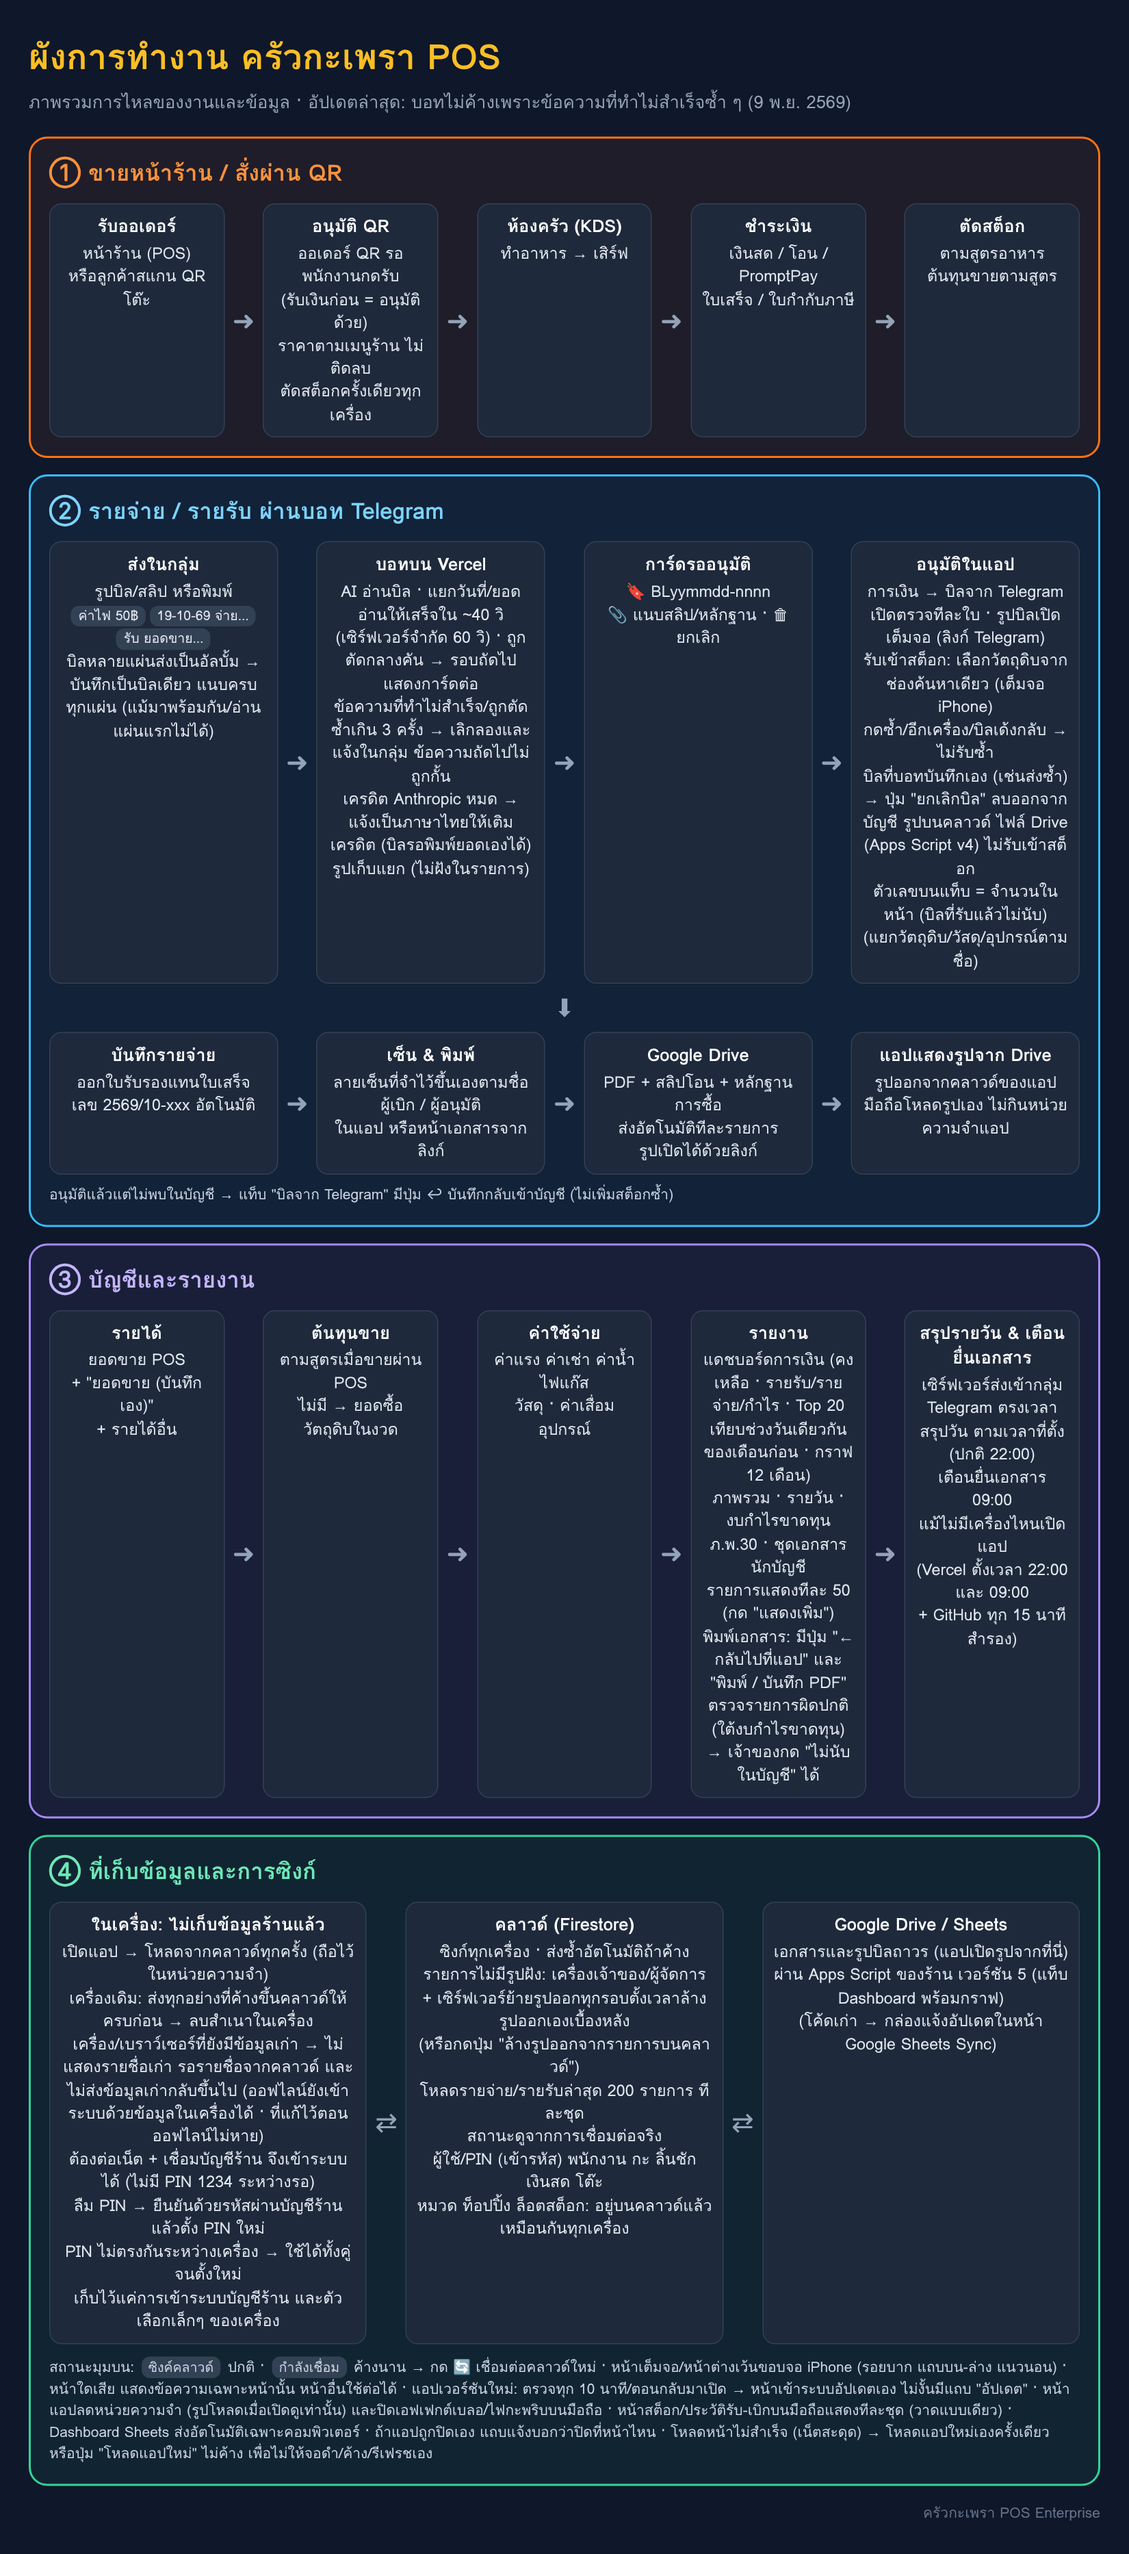
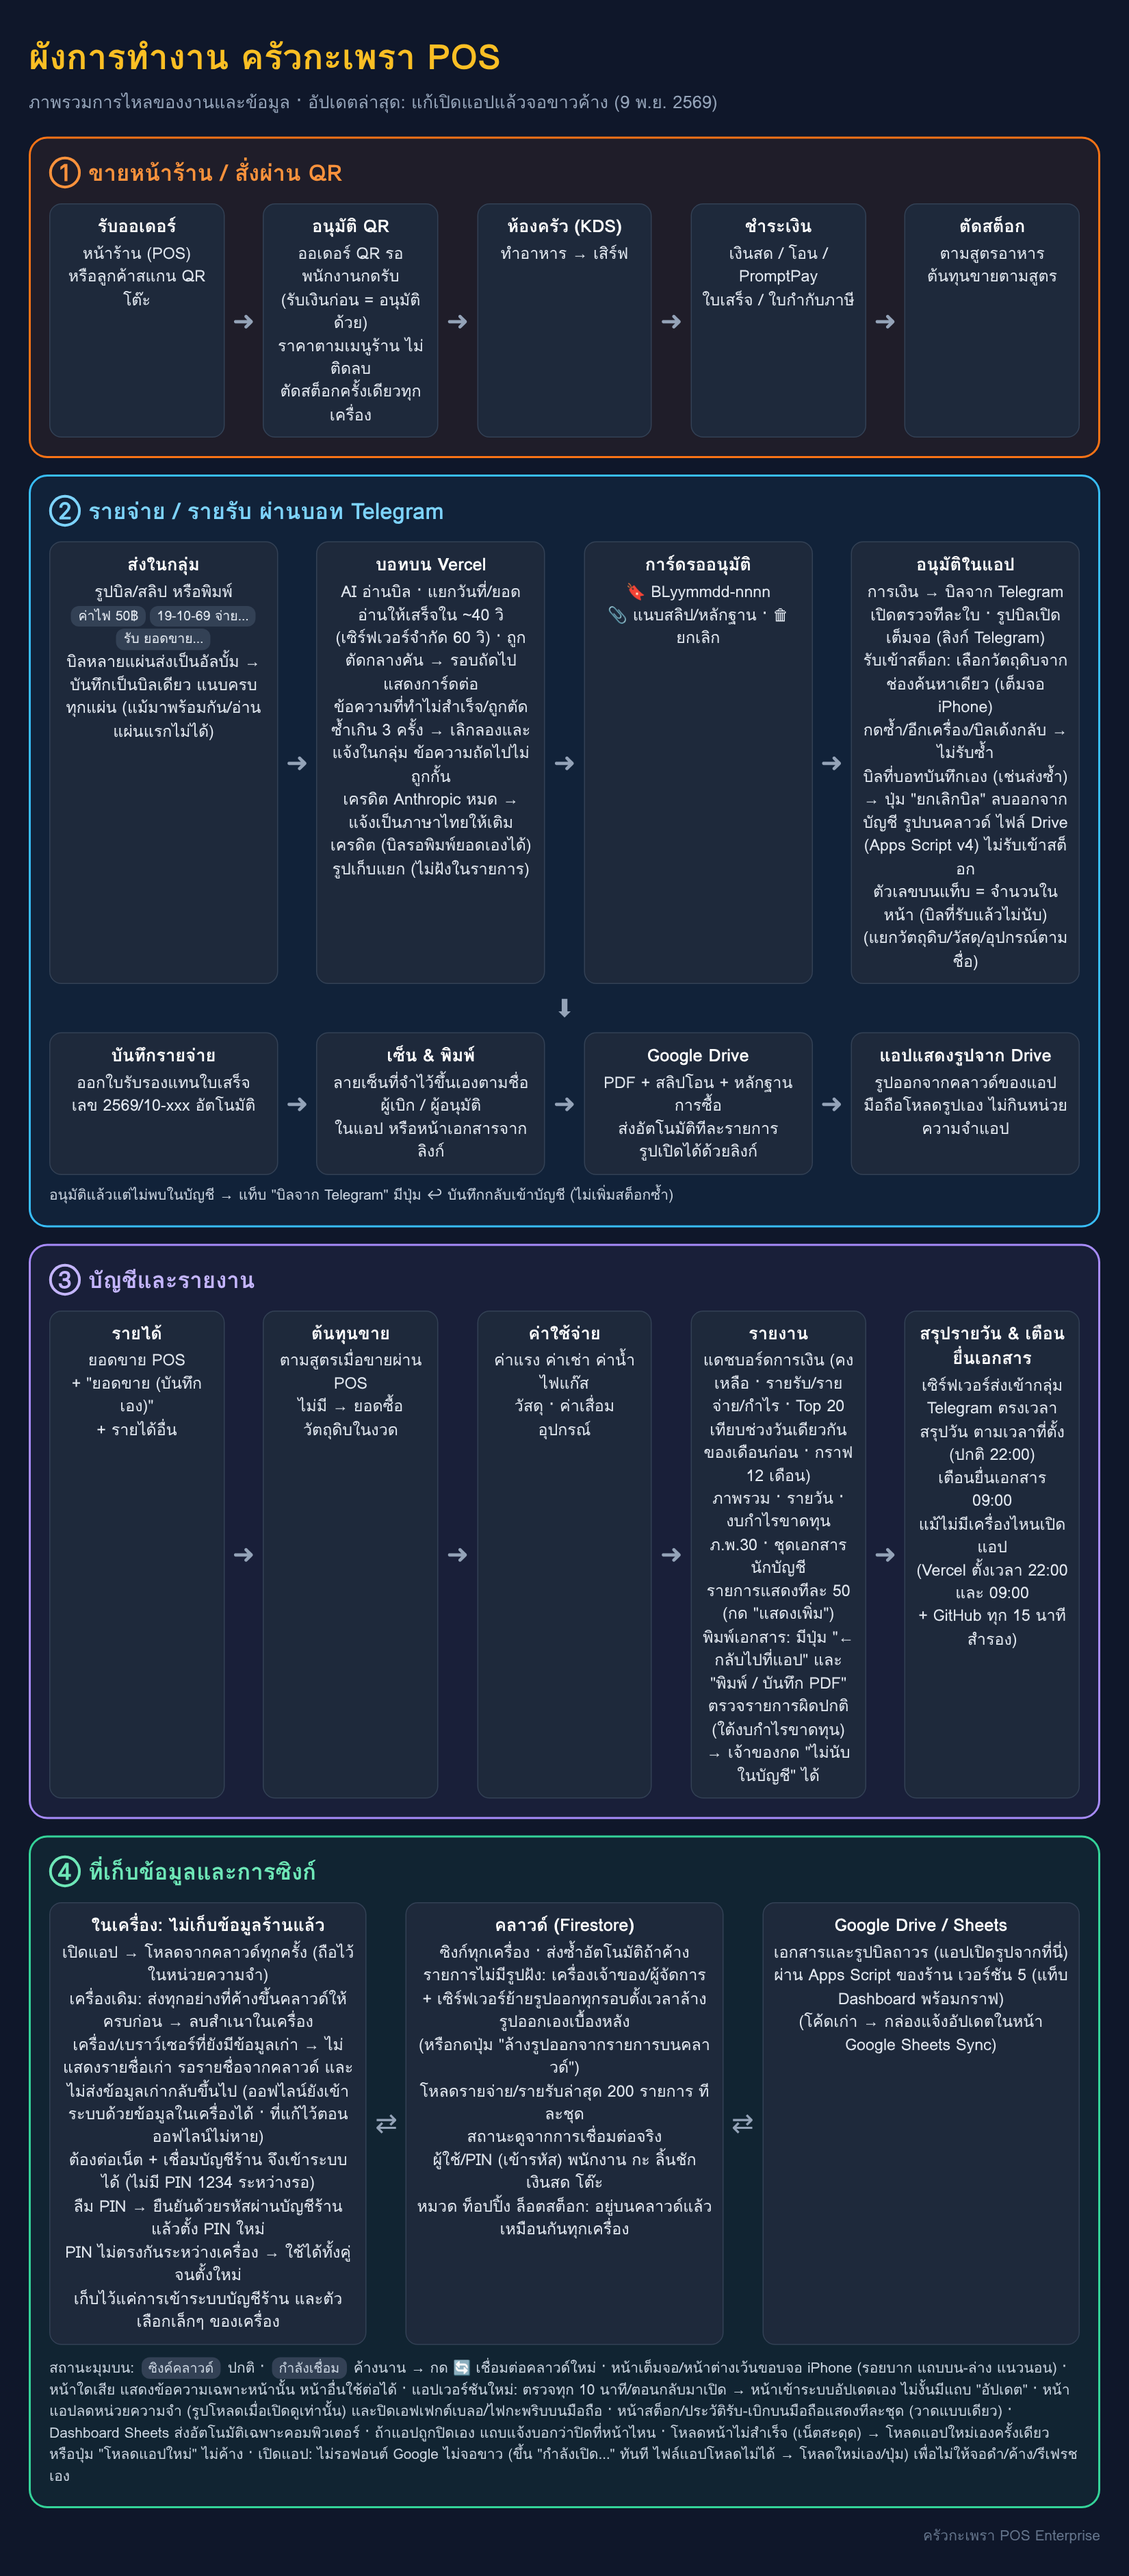
Opening the app no longer leaves a white screen
The iPhone showed a white page and nothing else. The Google font stylesheet
blocked the page, and the app's code waits for blocking stylesheets: on a weak
signal nothing started until Google answered. A main file that failed to load
left the page blank with no way out.

- The font loads without blocking (system font meanwhile).
- The page has the app's dark colour and "กำลังเปิด…" from the first moment.
- A file of the app that fails to load reloads it once by itself (not again
  within 2 minutes); still not open after 20 s, a message with
  "โหลดแอปใหม่" is shown.
- Service worker: the app's files (named by their content) come from the
  cache when there, else the network, tried twice.

Claude-Session: https://claude.ai/code/session_01Gq3UvYW4wv3hsVCXoh5wxy

diff --git a/docs/workflow/flow.html b/docs/workflow/flow.html
@@ -17,7 +17,7 @@ h1{margin:0 0 4px;font-size:34px;color:#fbbf24}.sub{color:#94a3b8;font-size:17px
 .foot{color:#64748b;font-size:14px;margin-top:6px;text-align:right}
 </style></head><body>
 <h1>ผังการทำงาน ครัวกะเพรา POS</h1>
-<div class="sub">ภาพรวมการไหลของงานและข้อมูล · อัปเดตล่าสุด: บอทไม่ค้างเพราะข้อความที่ทำไม่สำเร็จซ้ำ ๆ (9 พ.ย. 2569)</div>
+<div class="sub">ภาพรวมการไหลของงานและข้อมูล · อัปเดตล่าสุด: แก้เปิดแอปแล้วจอขาวค้าง (9 พ.ย. 2569)</div>
 
 <div class="lane pos"><h2>① ขายหน้าร้าน / สั่งผ่าน QR</h2>
 <div class="row">
@@ -60,7 +60,7 @@ h1{margin:0 0 4px;font-size:34px;color:#fbbf24}.sub{color:#94a3b8;font-size:17px
 <div class="box"><b>คลาวด์ (Firestore)</b>ซิงก์ทุกเครื่อง · ส่งซ้ำอัตโนมัติถ้าค้าง<br>รายการไม่มีรูปฝัง: เครื่องเจ้าของ/ผู้จัดการ<br>+ เซิร์ฟเวอร์ย้ายรูปออกทุกรอบตั้งเวลาล้างรูปออกเองเบื้องหลัง<br>(หรือกดปุ่ม "ล้างรูปออกจากรายการบนคลาวด์")<br>โหลดรายจ่าย/รายรับล่าสุด 200 รายการ ทีละชุด<br>สถานะดูจากการเชื่อมต่อจริง<br>ผู้ใช้/PIN (เข้ารหัส) พนักงาน กะ ลิ้นชักเงินสด โต๊ะ<br>หมวด ท็อปปิ้ง ล็อตสต็อก: อยู่บนคลาวด์แล้ว เหมือนกันทุกเครื่อง</div><div class="ar">⇄</div>
 <div class="box"><b>Google Drive / Sheets</b>เอกสารและรูปบิลถาวร (แอปเปิดรูปจากที่นี่)<br>ผ่าน Apps Script ของร้าน เวอร์ชัน 5 (แท็บ Dashboard พร้อมกราฟ)<br>(โค้ดเก่า → กล่องแจ้งอัปเดตในหน้า Google Sheets Sync)</div>
 </div>
-<div class="note">สถานะมุมบน: <span class="tag">ซิงค์คลาวด์</span> ปกติ · <span class="tag">กำลังเชื่อม</span> ค้างนาน → กด 🔄 เชื่อมต่อคลาวด์ใหม่ · หน้าเต็มจอ/หน้าต่างเว้นขอบจอ iPhone (รอยบาก แถบบน-ล่าง แนวนอน) · หน้าใดเสีย แสดงข้อความเฉพาะหน้านั้น หน้าอื่นใช้ต่อได้ · แอปเวอร์ชันใหม่: ตรวจทุก 10 นาที/ตอนกลับมาเปิด → หน้าเข้าระบบอัปเดตเอง ไม่งั้นมีแถบ "อัปเดต" · หน้าแอปลดหน่วยความจำ (รูปโหลดเมื่อเปิดดูเท่านั้น) และปิดเอฟเฟกต์เบลอ/ไฟกะพริบบนมือถือ · หน้าสต็อก/ประวัติรับ-เบิกบนมือถือแสดงทีละชุด (วาดแบบเดียว) · Dashboard Sheets ส่งอัตโนมัติเฉพาะคอมพิวเตอร์ · ถ้าแอปถูกปิดเอง แถบแจ้งบอกว่าปิดที่หน้าไหน · โหลดหน้าไม่สำเร็จ (เน็ตสะดุด) → โหลดแอปใหม่เองครั้งเดียว หรือปุ่ม "โหลดแอปใหม่" ไม่ค้าง เพื่อไม่ให้จอดำ/ค้าง/รีเฟรชเอง</div>
+<div class="note">สถานะมุมบน: <span class="tag">ซิงค์คลาวด์</span> ปกติ · <span class="tag">กำลังเชื่อม</span> ค้างนาน → กด 🔄 เชื่อมต่อคลาวด์ใหม่ · หน้าเต็มจอ/หน้าต่างเว้นขอบจอ iPhone (รอยบาก แถบบน-ล่าง แนวนอน) · หน้าใดเสีย แสดงข้อความเฉพาะหน้านั้น หน้าอื่นใช้ต่อได้ · แอปเวอร์ชันใหม่: ตรวจทุก 10 นาที/ตอนกลับมาเปิด → หน้าเข้าระบบอัปเดตเอง ไม่งั้นมีแถบ "อัปเดต" · หน้าแอปลดหน่วยความจำ (รูปโหลดเมื่อเปิดดูเท่านั้น) และปิดเอฟเฟกต์เบลอ/ไฟกะพริบบนมือถือ · หน้าสต็อก/ประวัติรับ-เบิกบนมือถือแสดงทีละชุด (วาดแบบเดียว) · Dashboard Sheets ส่งอัตโนมัติเฉพาะคอมพิวเตอร์ · ถ้าแอปถูกปิดเอง แถบแจ้งบอกว่าปิดที่หน้าไหน · โหลดหน้าไม่สำเร็จ (เน็ตสะดุด) → โหลดแอปใหม่เองครั้งเดียว หรือปุ่ม "โหลดแอปใหม่" ไม่ค้าง · เปิดแอป: ไม่รอฟอนต์ Google ไม่จอขาว (ขึ้น "กำลังเปิด…" ทันที ไฟล์แอปโหลดไม่ได้ → โหลดใหม่เอง/ปุ่ม) เพื่อไม่ให้จอดำ/ค้าง/รีเฟรชเอง</div>
 </div>
 <div class="foot">ครัวกะเพรา POS Enterprise</div>
 </body></html>

diff --git a/index.html b/index.html
@@ -23,13 +23,58 @@
     <!-- Kanit: large, easy-to-read prices and totals on the POS screen -->
     <link rel="preconnect" href="https://fonts.googleapis.com" />
     <link rel="preconnect" href="https://fonts.gstatic.com" crossorigin />
-    <link href="https://fonts.googleapis.com/css2?family=Kanit:wght@500;600;700&display=swap" rel="stylesheet" />
+    <!-- Not render-blocking: on a weak signal the page (and the app's code, which waits for blocking
+         stylesheets) stayed white until Google answered. The app shows in the system font meanwhile -->
+    <link href="https://fonts.googleapis.com/css2?family=Kanit:wght@500;600;700&display=swap" rel="stylesheet" media="print" onload="this.media='all'" />
+
+    <!-- The app's colour from the first moment (not a white page while its code loads) -->
+    <style>
+      html, body { background: #0d0704; margin: 0; }
+      #boot { min-height: 100dvh; display: flex; flex-direction: column; align-items: center; justify-content: center; gap: 14px; color: #f5e6d8; font-family: -apple-system, system-ui, sans-serif; text-align: center; padding: 24px; box-sizing: border-box; }
+      #boot .spin { width: 32px; height: 32px; border-radius: 50%; border: 3px solid #f97316; border-top-color: transparent; animation: bootspin 1s linear infinite; }
+      #boot button { height: 44px; padding: 0 18px; border-radius: 12px; border: 1px solid #c2410c; background: #431407; color: #fed7aa; font-size: 15px; font-weight: 700; }
+      #boot .msg { display: none; font-size: 14px; line-height: 1.5; max-width: 300px; }
+      @keyframes bootspin { to { transform: rotate(360deg); } }
+    </style>
 
     <!-- Google Identity Services for Direct OAuth -->
     <script src="https://accounts.google.com/gsi/client" async defer></script>
   </head>
   <body>
-    <div id="root"></div>
+    <div id="root"><div id="boot"><div class="spin"></div><div>ครัวกะเพรา POS กำลังเปิด…</div><div class="msg" id="boot-msg">เปิดแอปไม่สำเร็จ (สัญญาณเน็ตอาจสะดุด) ข้อมูลไม่หาย<br /><br /><button type="button" onclick="kpReload()">โหลดแอปใหม่</button></div></div></div>
+    <script>
+      // The app's code did not start (a file failed to load on a weak signal): say so with a button
+      // instead of a blank page; a file that failed loads the app again once by itself (not again within 2 minutes)
+      (function () {
+        window.kpReload = function () {
+          var u = new URL(location.href);
+          u.searchParams.set('v', String(Date.now()));
+          location.replace(u.toString());
+        };
+        var shown = false;
+        function failed(reload) {
+          var boot = document.getElementById('boot');
+          if (shown || !boot) return; // the app is on screen
+          shown = true;
+          var msg = document.getElementById('boot-msg');
+          if (msg) msg.style.display = 'block';
+          if (!reload) return;
+          try {
+            var last = Number(sessionStorage.getItem('POS_BOOT_RELOADED') || 0);
+            if (Date.now() - last > 120000) {
+              sessionStorage.setItem('POS_BOOT_RELOADED', String(Date.now()));
+              window.kpReload();
+            }
+          } catch (e) {}
+        }
+        window.addEventListener('error', function (e) {
+          var t = e && e.target;
+          if (t && (t.tagName === 'SCRIPT' || (t.tagName === 'LINK' && t.rel === 'modulepreload'))) failed(true);
+        }, true);
+        // Still not open after 20 s (a slow signal): the button is offered, nothing reloads by itself
+        setTimeout(function () { if (document.getElementById('boot')) failed(false); }, 20000);
+      })();
+    </script>
     <script type="module" src="/src/main.tsx"></script>
   </body>
 </html>

diff --git a/public/sw.js b/public/sw.js
@@ -1,7 +1,7 @@
 // Bump when static assets change so phones drop the old (broken) logo from the cache
-const CACHE_NAME = 'kaprao-pos-v5';
+const CACHE_NAME = 'kaprao-pos-v6';
 // The cache keeps the app's newest files only (it used to keep every version's, without end)
-const MAX_ENTRIES = 120;
+const MAX_ENTRIES = 300;
 const ASSETS_TO_CACHE = [
   './',
   './index.html',
@@ -73,6 +73,32 @@ self.addEventListener('fetch', (event) => {
             headers: { 'Content-Type': 'application/json' }
           }
         );
+      })
+    );
+    return;
+  }
+
+  // The app's files (assets/<name>-<hash>.js|css) never change under the same name: taken from the
+  // cache when there, otherwise from the network (tried twice: a weak signal failing once left the
+  // app blank)
+  if (event.request.method === 'GET' && url.pathname.includes('/assets/')) {
+    event.respondWith(
+      caches.match(event.request).then((cached) => {
+        if (cached) return cached;
+        const get = () => fetch(event.request);
+        return get()
+          .catch(() => new Promise((r) => setTimeout(r, 800)).then(get))
+          .then((res) => {
+            if (res.status === 200 && res.type === 'basic') {
+              const copy = res.clone();
+              caches.open(CACHE_NAME).then(async (cache) => {
+                await cache.put(event.request, copy);
+                const keys = await cache.keys();
+                for (const old of keys.slice(0, Math.max(0, keys.length - MAX_ENTRIES))) await cache.delete(old);
+              });
+            }
+            return res;
+          });
       })
     );
     return;
